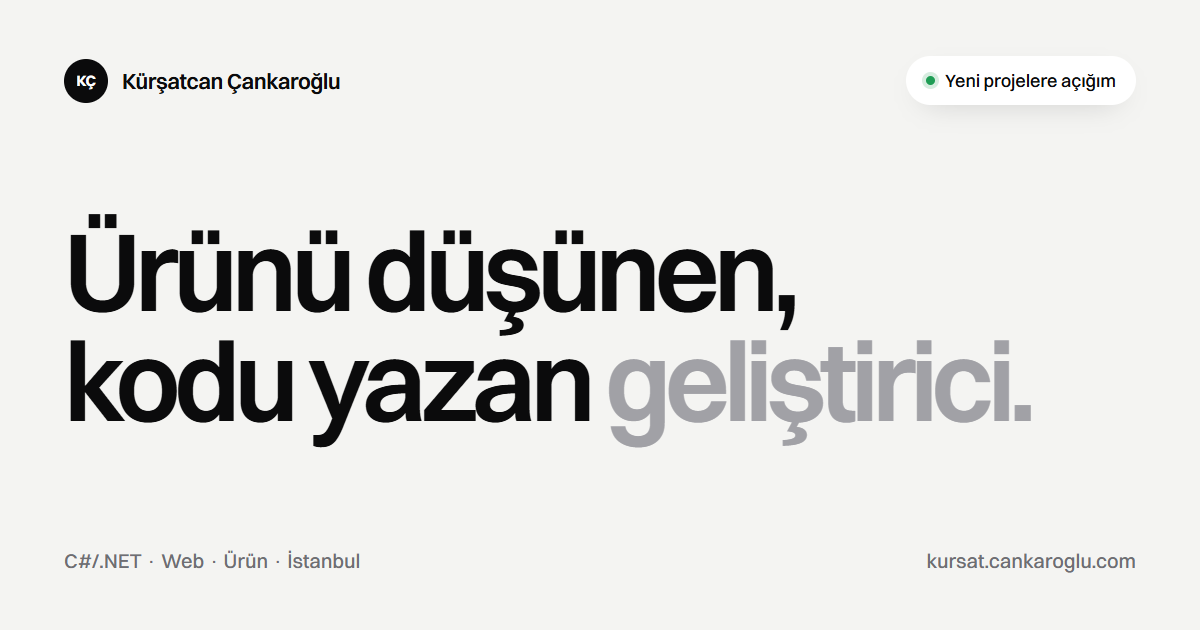
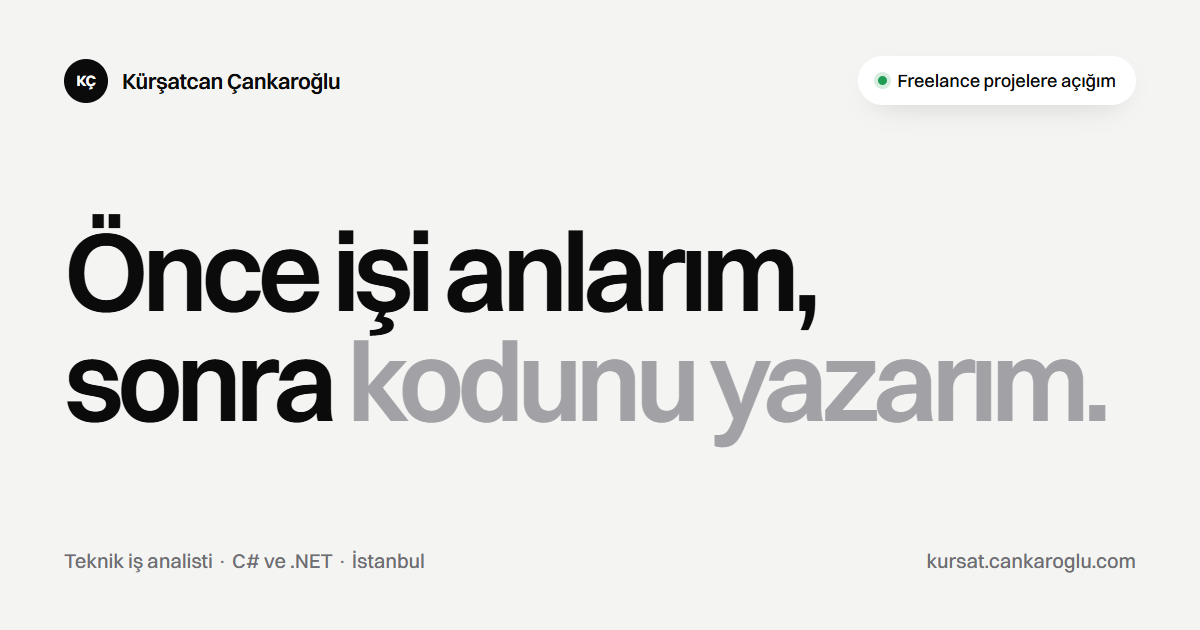
Update the certificates intro, manifest text and share image
The share image now carries the new headline and role, and the manifest
description no longer uses the old slogan.

Changed region(s): [[0.0308, 0.3317, 0.925, 0.7238], [0.0308, 0.8746, 0.37, 0.9048], [0.7092, 0.1206, 0.8325, 0.1508]]

diff --git a/certificates.html b/certificates.html
@@ -68,7 +68,7 @@
   <section class="kursat-page-head kursat-container">
     <nav class="kursat-crumbs" aria-label="Konum"><a href="about.html">Hakkımda</a><span>/</span><span>Sertifikalar</span></nav>
     <h1 class="kursat-h1">Sertifikalar</h1>
-    <p class="kursat-lead">Tamamı BTK Akademi üzerinden. Kartta Credential ID'yi kopyalayıp BTK portalında doğrulayabilirsiniz.</p>
+    <p class="kursat-lead">Hepsi BTK Akademi'den. Kartlardaki Credential ID'yi kopyalayıp BTK'nın sitesinde kontrol edebilirsiniz.</p>
   </section>
 
   <section class="kursat-container" style="padding-bottom:var(--kursat-section)">
